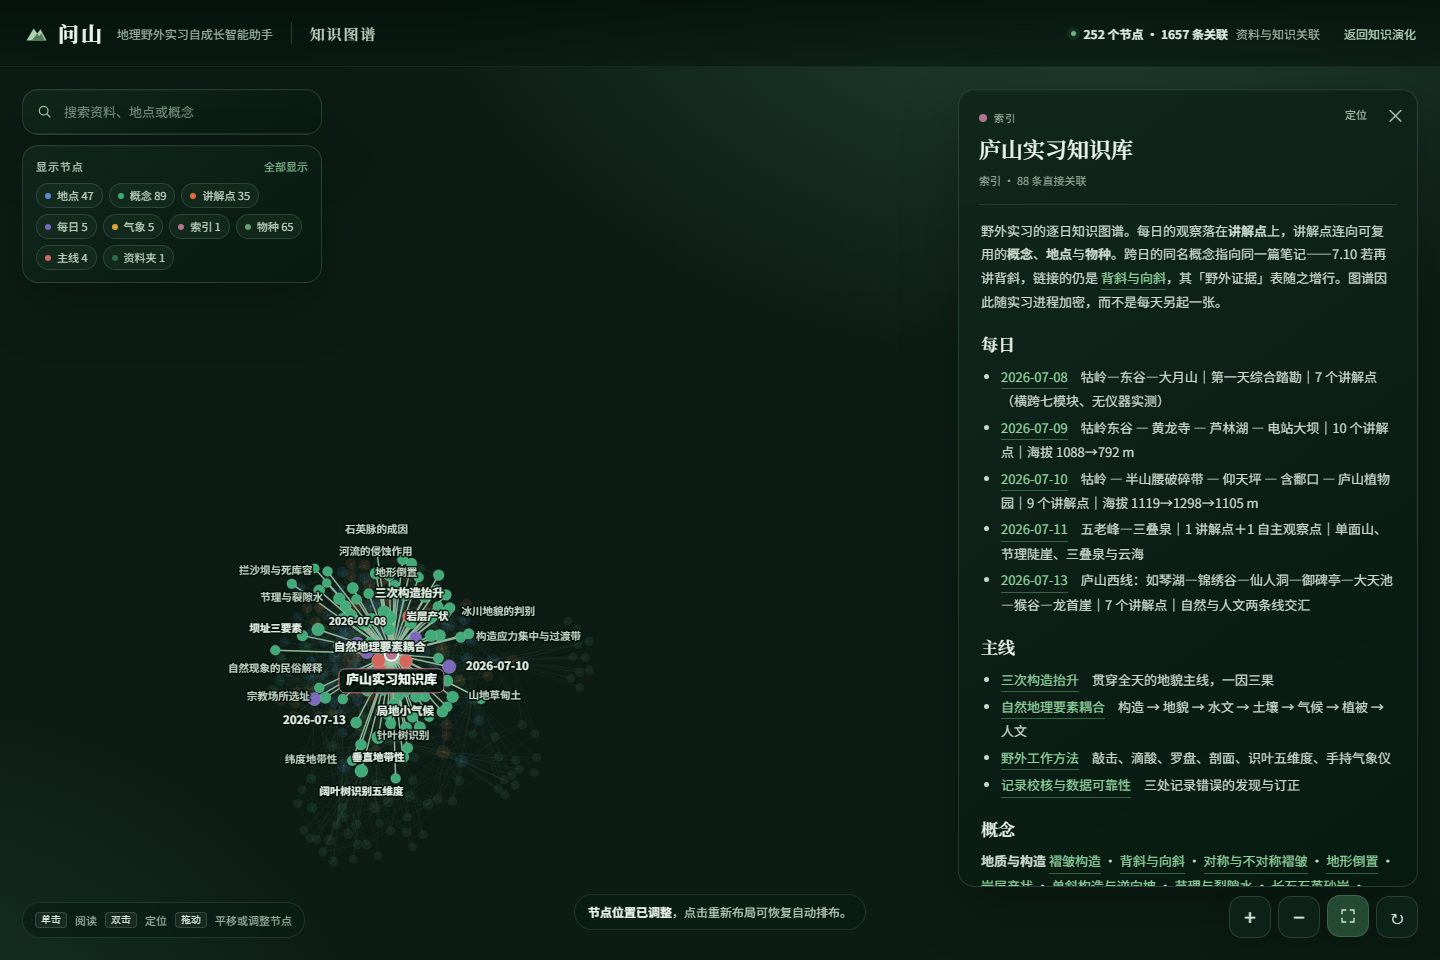
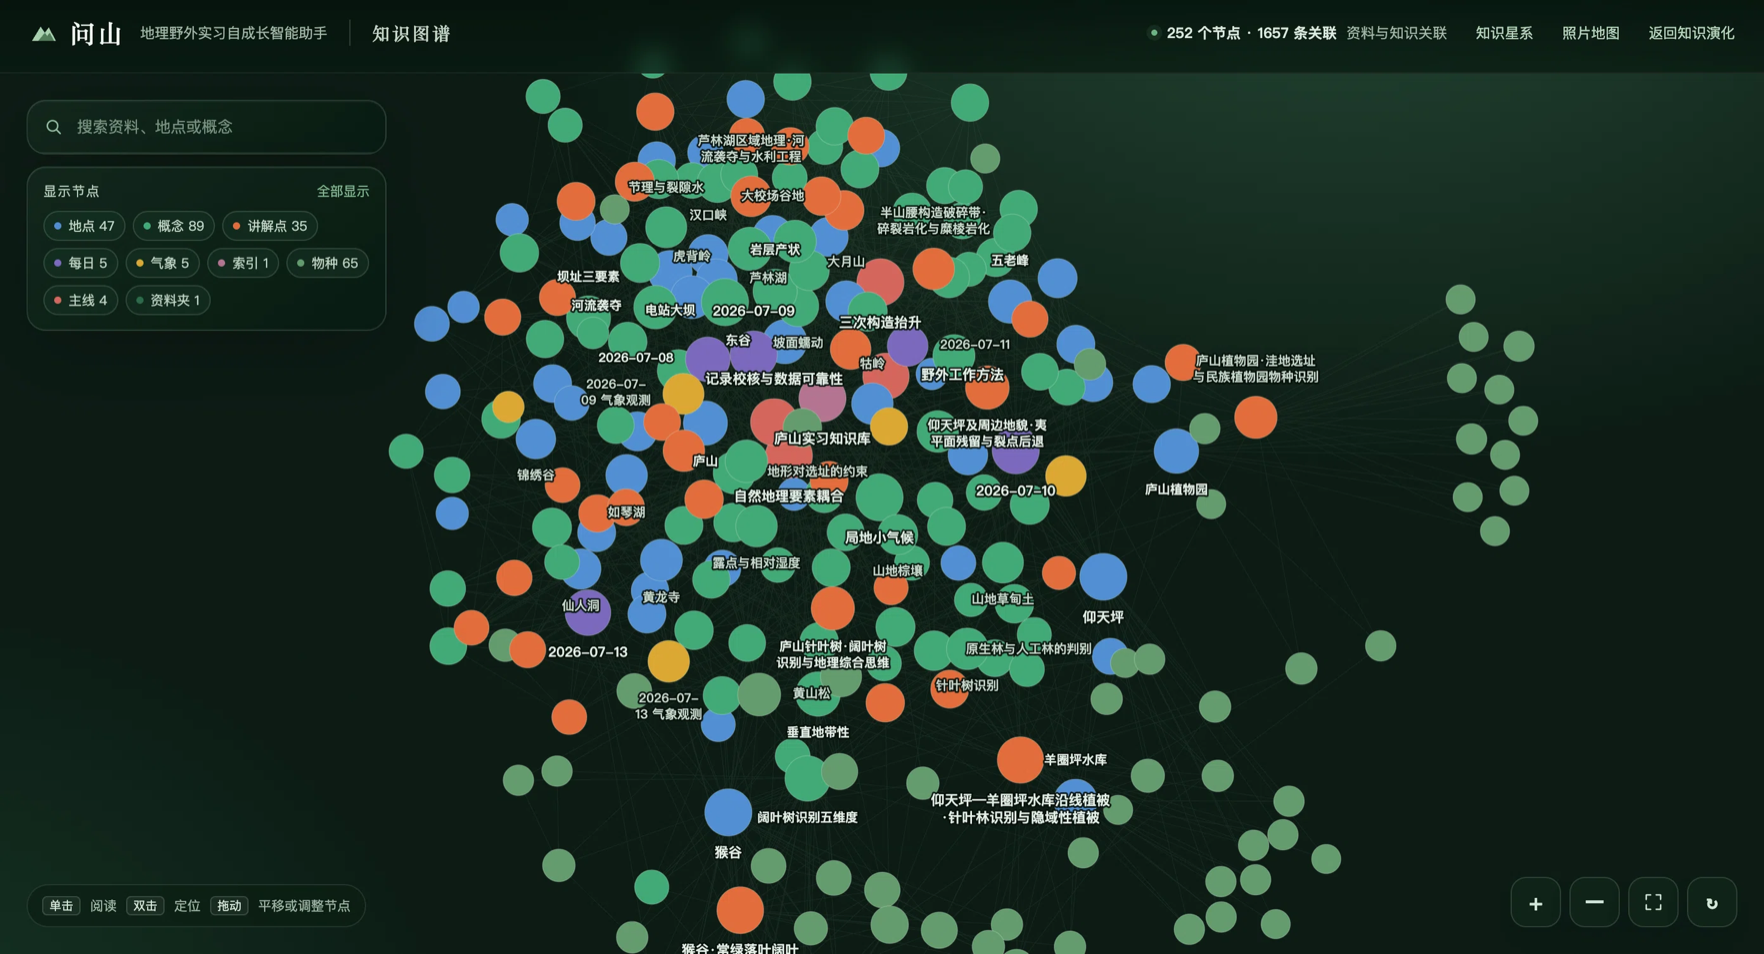
docs: 更换知识图谱截图为实机页面
- 旧图只有图谱本身；新图带完整页面 chrome（节点与关联计数、类型图例计数、
  搜索框、类型筛选、缩放/适配/重排控件、操作提示），一屏内即可核对接口层
  252 节点 / 1657 条关联与数据层的对应关系
- alt 文本改为描述实际画面，图片加载失败时也能说明内容

diff --git a/README.md b/README.md
@@ -32,7 +32,7 @@ agents/             两个 agent 模式的配置
 - 本地持久化：原始资料、提取结果、草稿、发布记录、缺口记录分开保存，重启后可恢复。
 - 权限隔离：野外助教没有资料写入和知识发布工具，只能登记缺口。
 
-![知识图谱](docs/images/knowledge-graph.png)
+![知识图谱页面：252 个节点、1657 条关联，按类型配色，左侧搜索与类型筛选](docs/images/knowledge-graph.png)
 
 ## 运行环境
 
